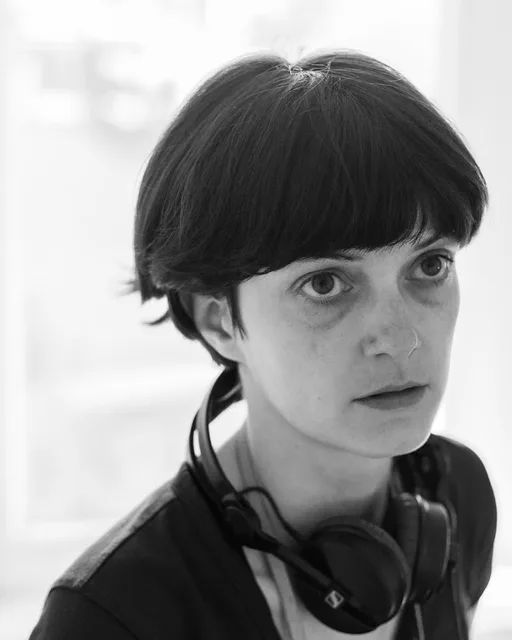
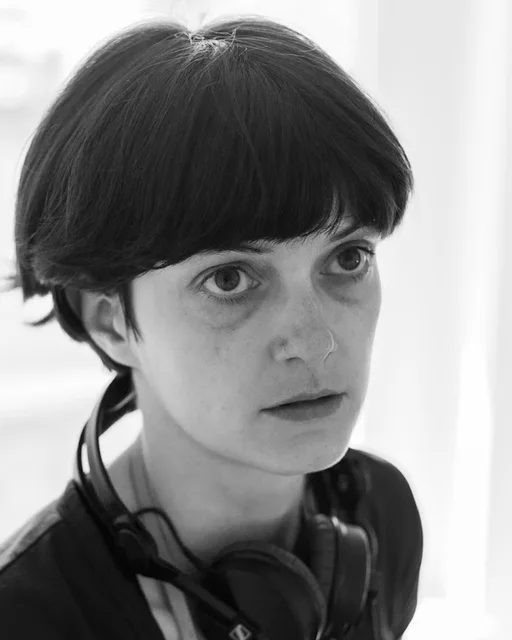
Graph portraits always black and white; Marija's portrait re-cropped around her face
Claude-Session: https://claude.ai/code/session_01J3s7Wc6hV9sCJDfUyU3SYy

diff --git a/index.html b/index.html
@@ -2389,7 +2389,7 @@ document.querySelectorAll('.team .face img[data-alt]').forEach(img=>{
       /* portraits: a photo in a red ring for the three of us, initials for everyone else until we have their photos */
       ctx.save(); ctx.beginPath(); ctx.arc(n.x, n.y, r, 0, 7); ctx.closePath();
       if (n.img && n.img.complete && n.img.naturalWidth){ ctx.clip(); const iw = n.img.naturalWidth, ih = n.img.naturalHeight, s = (2*r) / Math.min(iw, ih);
-        ctx.fillStyle = '#000'; ctx.fillRect(n.x - r, n.y - r, 2*r, 2*r); ctx.globalAlpha *= n.ph ? .3 : .92; ctx.drawImage(n.img, n.x - iw*s/2, n.y - ih*s*.42, iw*s, ih*s); }
+        ctx.fillStyle = '#000'; ctx.fillRect(n.x - r, n.y - r, 2*r, 2*r); ctx.globalAlpha *= n.ph ? .3 : .92; ctx.filter = 'grayscale(1)'; ctx.drawImage(n.img, n.x - iw*s/2, n.y - ih*s*.42, iw*s, ih*s); ctx.filter = 'none'; }
       else { ctx.fillStyle = LIGHT() ? '#e4e3de' : '#1c1c1b'; ctx.fill(); }
       ctx.restore(); ctx.globalAlpha = (dim ? .3 : 1) * n.vis;
       ctx.beginPath(); ctx.arc(n.x, n.y, r, 0, 7); ctx.lineWidth = (n.core ? 2.5 : 1.3) * (small ? 1 : S); ctx.strokeStyle = n.core || n === act ? '#e2231a' : (LIGHT() ? '#8f8f8a' : '#5d5d5a'); ctx.stroke();
